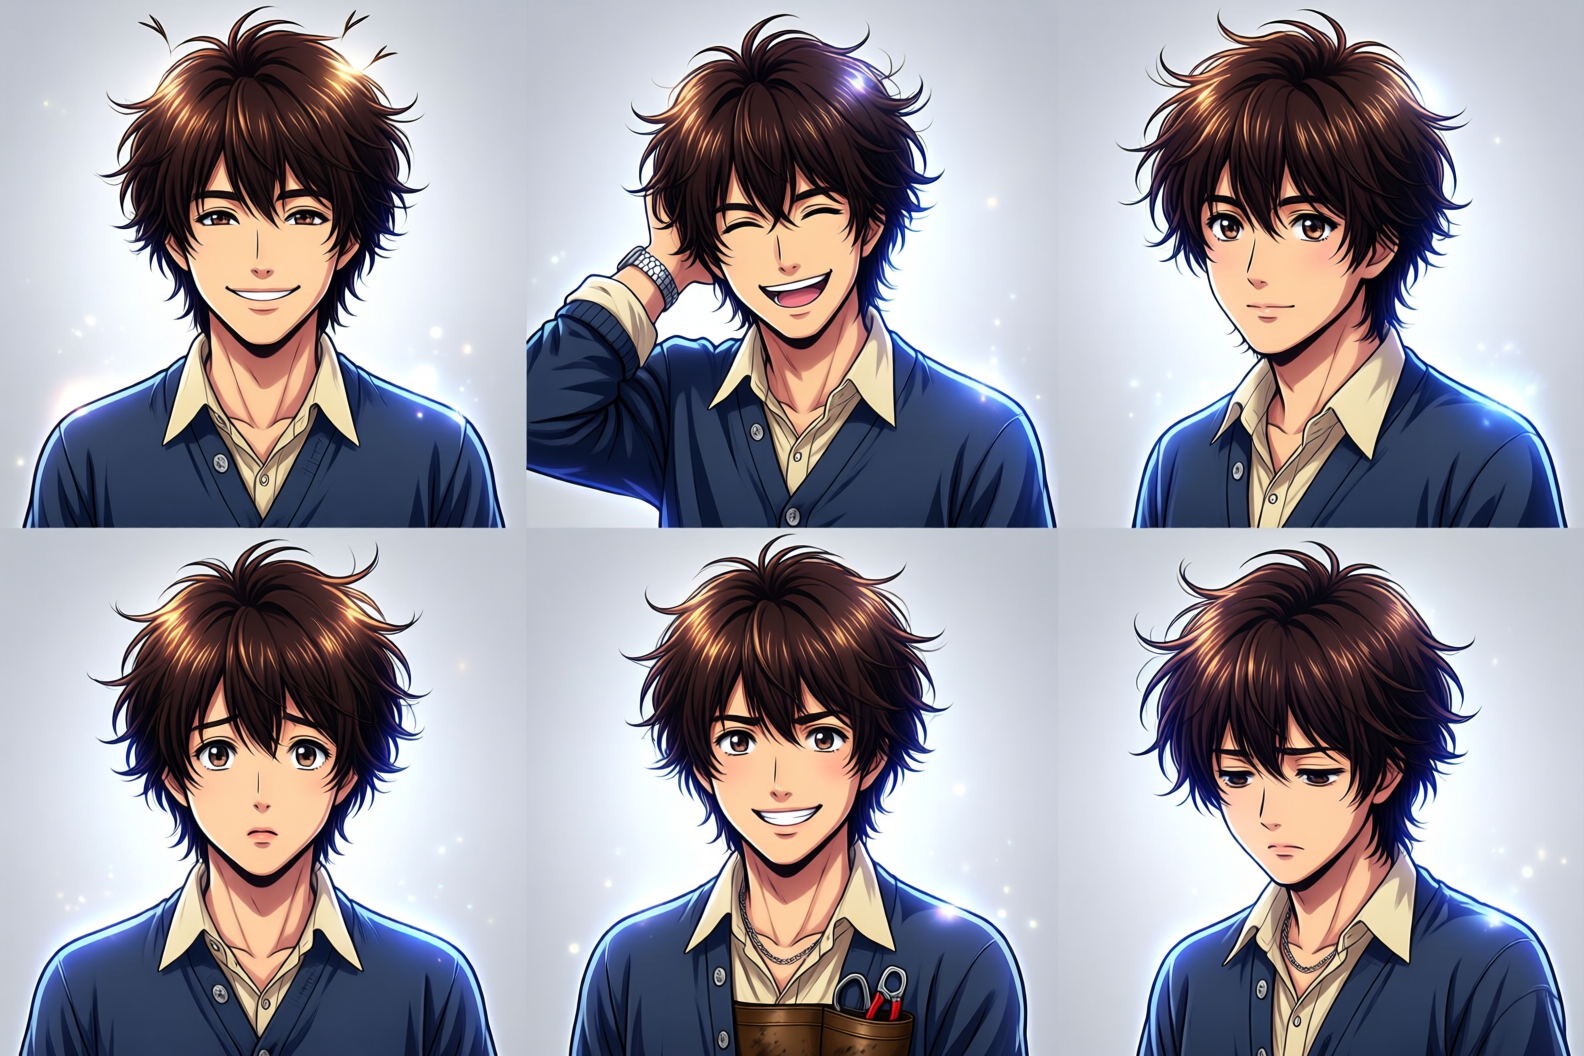
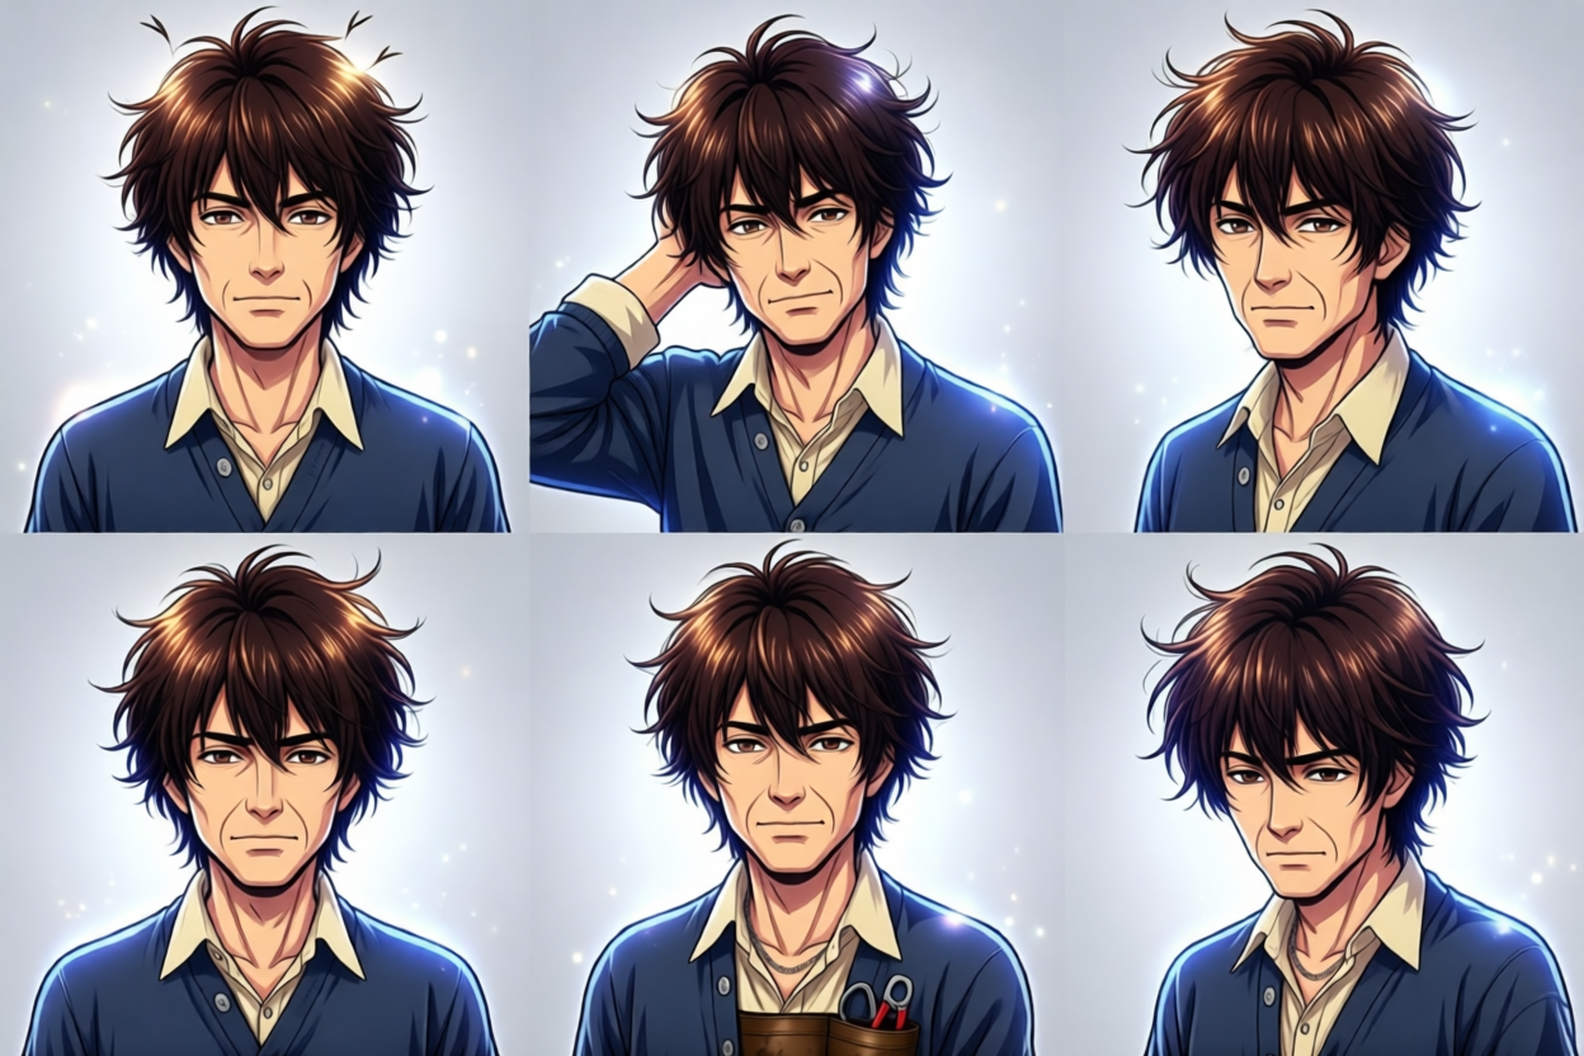
2차 컨셉아트: 제임스 5컷을 40대 초반으로 나이 편집
- r3 에서 20대처럼 보이던 제임스를 Qwen-Image-Edit 로 "about forty, subtle laugh lines" 편집 (컷마다 후보 2장 중 선택)
- sources/04_james 에 편집 전 생성 원본 5장 추가, manifest·final_v2.json·프롬프트 문서(영문·한글) 다시 생성
- README·확장기능_비교.md 에 e2 회차와 처리 내용 반영

Changed region(s): [[0.0, 0.0, 0.6806, 1.0], [0.7115, 0.0, 1.0, 1.0]]

diff --git a/v2_qwen_anime/prompts_v2_ko.md b/v2_qwen_anime/prompts_v2_ko.md
@@ -177,12 +177,24 @@
 캐릭터 모델 시트, 제임스를 왼쪽 정면, 가운데 측면, 오른쪽 후면으로 나란히 세 번 그림, 고른 간격, 머리부터 발끝까지 전신, 편안한 중립 자세, 팔은 옆으로 자연스럽게 내리고 다리는 곧게 나란히, 세 그림 모두 같은 옷과 비율, 제임스는 40대 초반의 다정한 아버지, 매끈한 피부의 젊어 보이는 잘생긴 어른 얼굴, 눈꼬리에 아주 희미한 웃음 주름, 다정하고 따뜻한 눈, 깨끗이 면도함, 아주 키 크고 호리호리하며 어깨가 살짝 굽음, 정수리에 작은 가마처럼 세 가닥이 삐친 헝클어진 짙은 갈색 머리, 작은 은단추가 달린 슬레이트 블루 니트 카디건 안에 팔꿈치 패치가 있는 크림색 셔츠, 걷어 올린 소매, 주머니에 작은 전정가위를 꽂은 낡은 갈색 바지, 진흙 묻은 갈색 고무장화, 가는 은 시곗줄, 부드러운 흰빛이 도는 무지의 연회색 스튜디오 배경, 깔끔한 디자인 시트 배치, 깔끔한 선, 매끈한 디지털 셀 채색, 밝은 가장자리 빛, 선명하고 짙은 색, 차가운 푸른 보랏빛 그림자.
 ```
 
+**편집 지시**
+
+```
+남자를 20대 청년 대신 마흔 살 정도로 보이게 하라 (세 그림 모두): 조금 더 긴 어른 얼굴, 더 단단한 턱선, 눈꼬리의 은은한 웃음 주름. 얼굴 표정은 그대로 두고, 깊은 주름이나 지친 기색은 넣지 않는다. 세 가닥이 삐친 헝클어진 짙은 갈색 머리, 옷, 자세, 키 크고 호리호리한 몸, 색, 배경, 애니메이션 그림체는 그대로.
+```
+
 ### james_2 · `final/04_james/james_2_keypose.png`
 
 **확장 프롬프트**
 
 ```
 40대 초반의 다정한 아버지 제임스의 전신 캐릭터 키아트, 한쪽 무릎을 꿇고 낮게 앉아 눈높이에서 보는 이를 향해 따뜻하게 웃음, 한 손은 무릎 위에, 곁의 땅에 금속 물뿌리개, 매끈한 피부에 눈꼬리에만 아주 희미한 웃음 주름이 있는 젊어 보이는 잘생긴 어른 얼굴, 다정하고 따뜻한 눈, 깨끗이 면도함, 아주 키 크고 호리호리하며 어깨가 살짝 굽음, 정수리에 작은 가마처럼 세 가닥이 삐친 헝클어진 짙은 갈색 머리, 작은 은단추가 달린 슬레이트 블루 니트 카디건 안에 팔꿈치 패치가 있는 크림색 셔츠, 걷어 올린 소매, 주머니에 작은 전정가위를 꽂은 낡은 갈색 바지, 진흙 묻은 갈색 고무장화, 가는 은 시곗줄, 팔다리가 긴 아주 키 크고 마른 곧은 체격, 40대 초반의 다정하고 매끈한 얼굴, 헝클어진 갈색 머리에서 삐친 세 가닥, 슬레이트 블루와 크림색을 엷게 칠한 부드럽고 단순한 배경, 부드럽게 퍼지는 조명, 낮은 카메라 각도, 넓은 화면, 매끈한 그림 질감, 깔끔한 선.
+```
+
+**편집 지시**
+
+```
+남자를 20대 청년 대신 마흔 살 정도로 보이게 하라: 조금 더 긴 어른 얼굴, 더 단단한 턱선, 눈꼬리의 은은한 웃음 주름. 얼굴 표정은 그대로 두고, 깊은 주름이나 지친 기색은 넣지 않는다. 세 가닥이 삐친 헝클어진 짙은 갈색 머리, 옷, 자세, 키 크고 호리호리한 몸, 색, 배경, 애니메이션 그림체는 그대로.
 ```
 
 ### james_3 · `final/04_james/james_3_expressions.png`
@@ -193,6 +205,12 @@
 표정 시트, 제임스의 머리·어깨 초상 여섯 장을 2행 3열로 배치, 각각 다른 감정: 눈가가 접히는 따뜻한 미소, 서툰 실수 뒤 뒷머리를 긁으며 멋쩍게 웃음, 차분하고 다정한 눈으로 참을성 있게 기다림, 눈썹을 올린 걱정, 한쪽 눈썹을 올리고 장난스럽게 웃으며 농담함, 눈을 내리깔고 희미하게 웃는 조용한 슬픔. 모든 초상에서 같은 머리, 옷, 소품. 모든 초상은 가슴에서 잘림. 제임스는 40대 초반의 다정한 아버지, 매끈한 피부에 눈꼬리에만 아주 희미한 웃음 주름이 있는 젊어 보이는 잘생긴 어른 얼굴, 다정하고 따뜻한 눈, 깨끗이 면도함, 아주 키 크고 호리호리하며 어깨가 살짝 굽음, 정수리에 작은 가마처럼 세 가닥이 삐친 헝클어진 짙은 갈색 머리, 작은 은단추가 달린 슬레이트 블루 니트 카디건 안에 팔꿈치 패치가 있는 크림색 셔츠, 걷어 올린 소매, 주머니에 작은 전정가위를 꽂은 낡은 갈색 바지, 진흙 묻은 갈색 고무장화, 가는 은 시곗줄. 핵심 디자인 포인트: 팔다리가 긴 아주 키 크고 마른 곧은 체격, 40대 초반의 다정하고 매끈한 얼굴, 헝클어진 갈색 머리에서 삐친 세 가닥. 부드러운 흰빛이 도는 무지의 연회색 스튜디오 배경, 아무 표시 없는 깔끔한 디자인 시트 배치.
 ```
 
+**편집 지시**
+
+```
+남자를 20대 청년 대신 마흔 살 정도로 보이게 하라 (여섯 초상 모두): 조금 더 긴 어른 얼굴, 더 단단한 턱선, 눈꼬리의 은은한 웃음 주름. 각 초상의 얼굴 표정은 그대로 두고, 깊은 주름이나 지친 기색은 넣지 않는다. 세 가닥이 삐친 헝클어진 짙은 갈색 머리, 옷, 자세, 키 크고 호리호리한 몸, 색, 배경, 애니메이션 그림체는 그대로.
+```
+
 ### james_4 · `final/04_james/james_4_greenhouse.png`
 
 **확장 프롬프트**
@@ -201,12 +219,24 @@
 40대 초반의 다정한 아버지 제임스, 매끈한 피부의 젊어 보이는 잘생긴 어른 얼굴, 눈꼬리의 희미한 웃음 주름, 다정하고 따뜻한 눈, 깨끗이 면도함, 아주 키 크고 호리호리하며 어깨가 살짝 굽음, 정수리에 작은 가마처럼 세 가닥이 삐친 헝클어진 짙은 갈색 머리, 작은 은단추가 달린 슬레이트 블루 니트 카디건 안에 팔꿈치 패치가 있는 크림색 셔츠, 걷어 올린 소매, 주머니에 작은 전정가위를 꽂은 낡은 갈색 바지, 진흙 묻은 갈색 고무장화, 가는 은 시곗줄, 팔다리가 긴 아주 키 크고 마른 곧은 체격, 다정하고 매끈한 얼굴, 헝클어진 갈색 머리에서 삐친 세 가닥, 햇살 드는 유리 온실 안에서 줄지어 선 식물에 물을 줌, 뿌연 유리창으로 쏟아지는 따뜻한 빛, 김과 초록 잎, 평화로운 아침, 빛나는 정교한 그림 배경, 빛나는 빛 알갱이, 부드러운 렌즈 번짐, 선명하고 짙은 색, 영화 같은 피사계 심도.
 ```
 
+**편집 지시**
+
+```
+남자를 20대 청년 대신 마흔 살 정도로 보이게 하라: 조금 더 긴 어른 얼굴, 더 단단한 턱선, 눈꼬리의 은은한 웃음 주름. 얼굴 표정은 그대로 두고, 깊은 주름이나 지친 기색은 넣지 않는다. 세 가닥이 삐친 헝클어진 짙은 갈색 머리, 옷, 자세, 키 크고 호리호리한 몸, 색, 배경, 애니메이션 그림체는 그대로.
+```
+
 ### james_5 · `final/04_james/james_5_doorframe.png`
 
 **확장 프롬프트**
 
 ```
 40대 초반의 다정한 아버지 제임스, 매끈한 피부에 눈꼬리에만 아주 희미한 웃음 주름이 있는 젊어 보이는 잘생긴 어른 얼굴, 다정하고 따뜻한 눈, 깨끗이 면도함, 아주 키 크고 호리호리하며 어깨가 살짝 굽음, 정수리에 작은 가마처럼 세 가닥이 삐친 헝클어진 짙은 갈색 머리, 작은 은단추가 달린 슬레이트 블루 니트 카디건 안에 팔꿈치 패치가 있는 크림색 셔츠, 걷어 올린 소매, 주머니에 작은 전정가위를 꽂은 낡은 갈색 바지, 진흙 묻은 갈색 고무장화, 가는 은 시곗줄, 팔다리가 긴 아주 키 크고 마른 곧은 체격, 40대 초반의 다정하고 매끈한 얼굴, 헝클어진 갈색 머리에서 삐친 세 가닥, 아늑한 오두막의 낮은 나무 문틀 아래를 지나려고 긴 목을 숙이다 이마를 문틀에 살짝 부딪침, 이마를 문지르며 스스로 웃음, 따뜻한 실내 빛, 잔잔한 코미디, 깔끔한 선, 매끈한 디지털 셀 채색, 큰 표정 있는 눈, 윤기 나는 머리카락, 빛나는 그림 배경, 선명하고 짙은 색, 영화 같은 피사계 심도, 오리지널 캐릭터 디자인.
+```
+
+**편집 지시**
+
+```
+남자를 20대 청년 대신 마흔 살 정도로 보이게 하라: 조금 더 긴 어른 얼굴, 더 단단한 턱선, 눈꼬리의 은은한 웃음 주름. 얼굴 표정은 그대로 두고, 깊은 주름이나 지친 기색은 넣지 않는다. 세 가닥이 삐친 헝클어진 짙은 갈색 머리, 옷, 자세, 키 크고 호리호리한 몸, 색, 배경, 애니메이션 그림체는 그대로.
 ```
 
 ## 05_beth

diff --git a/v2_qwen_anime/prompts_v2_en.md b/v2_qwen_anime/prompts_v2_en.md
@@ -447,6 +447,12 @@ Character model sheet, three identical figures of James arranged side by side, f
 
 - 부정 프롬프트 추가: `semi-realistic, realistic face, realistic skin, skin pores, detailed wrinkles, wrinkle shading, digital painting, concept art, painterly, western cartoon, caricature, 3d cartoon, hyperdetailed, elderly, old man, grandfather, deep wrinkles, weathered skin, sagging skin, gray hair, white hair`
 
+**편집 지시 (시드 202)**
+
+```
+Make the man look about forty years old instead of a man in his twenties in all three views: a slightly longer adult face with a firmer jaw and subtle laugh lines at the corners of his eyes. Keep his facial expression exactly the same, with no heavy wrinkles and no tired look. Keep his messy dark brown hair with the three stray strands, his clothes, pose, tall lanky body, colors, background and anime style exactly the same.
+```
+
 ### james_2 · `final/04_james/james_2_keypose.png`
 
 - 생성: 시드 12402, 1056x1584, 원본 `main/2026-10-27/niki_compass_v2/04_james/r3/james_2_s12402_00001_.png`
@@ -470,6 +476,12 @@ Full-body character key art of James, a gentle father in his early forties, crou
 ```
 
 - 부정 프롬프트 추가: `semi-realistic, realistic face, realistic skin, skin pores, detailed wrinkles, wrinkle shading, digital painting, concept art, painterly, western cartoon, caricature, 3d cartoon, hyperdetailed, elderly, old man, grandfather, deep wrinkles, weathered skin, sagging skin, gray hair, white hair`
+
+**편집 지시 (시드 101)**
+
+```
+Make the man look about forty years old instead of a man in his twenties: a slightly longer adult face with a firmer jaw and subtle laugh lines at the corners of his eyes. Keep his facial expression exactly the same, with no heavy wrinkles and no tired look. Keep his messy dark brown hair with the three stray strands, his clothes, pose, tall lanky body, colors, background and anime style exactly the same.
+```
 
 ### james_3 · `final/04_james/james_3_expressions.png`
 
@@ -495,6 +507,12 @@ Expression sheet, six head-and-shoulders portraits of James in a two-row three-c
 
 - 부정 프롬프트 추가: `semi-realistic, realistic face, realistic skin, skin pores, detailed wrinkles, wrinkle shading, digital painting, concept art, painterly, western cartoon, caricature, 3d cartoon, hyperdetailed, elderly, old man, grandfather, deep wrinkles, weathered skin, sagging skin, gray hair, white hair`
 
+**편집 지시 (시드 202)**
+
+```
+Make the man look about forty years old instead of a man in his twenties in all six portraits: a slightly longer adult face with a firmer jaw and subtle laugh lines at the corners of his eyes. Keep his facial expression in each portrait exactly the same, with no heavy wrinkles and no tired look. Keep his messy dark brown hair with the three stray strands, his clothes, pose, tall lanky body, colors, background and anime style exactly the same.
+```
+
 ### james_4 · `final/04_james/james_4_greenhouse.png`
 
 - 생성: 시드 12404, 1584x1056, 원본 `main/2026-10-27/niki_compass_v2/04_james/r3/james_4_s12404_00001_.png`
@@ -519,6 +537,12 @@ James, a gentle father in his early forties, youthful handsome adult face with s
 
 - 부정 프롬프트 추가: `semi-realistic, realistic face, realistic skin, skin pores, detailed wrinkles, wrinkle shading, digital painting, concept art, painterly, western cartoon, caricature, 3d cartoon, hyperdetailed, elderly, old man, grandfather, deep wrinkles, weathered skin, sagging skin, gray hair, white hair`
 
+**편집 지시 (시드 202)**
+
+```
+Make the man look about forty years old instead of a man in his twenties: a slightly longer adult face with a firmer jaw and subtle laugh lines at the corners of his eyes. Keep his facial expression exactly the same, with no heavy wrinkles and no tired look. Keep his messy dark brown hair with the three stray strands, his clothes, pose, tall lanky body, colors, background and anime style exactly the same.
+```
+
 ### james_5 · `final/04_james/james_5_doorframe.png`
 
 - 생성: 시드 12405, 1056x1584, 원본 `main/2026-10-27/niki_compass_v2/04_james/r3/james_5_s12405_00001_.png`
@@ -542,6 +566,12 @@ James, a gentle father in his early forties, a youthful handsome adult face with
 ```
 
 - 부정 프롬프트 추가: `semi-realistic, realistic face, realistic skin, skin pores, detailed wrinkles, wrinkle shading, digital painting, concept art, painterly, western cartoon, caricature, 3d cartoon, hyperdetailed, elderly, old man, grandfather, deep wrinkles, weathered skin, sagging skin, gray hair, white hair`
+
+**편집 지시 (시드 101)**
+
+```
+Make the man look about forty years old instead of a man in his twenties: a slightly longer adult face with a firmer jaw and subtle laugh lines at the corners of his eyes. Keep his facial expression exactly the same, with no heavy wrinkles and no tired look. Keep his messy dark brown hair with the three stray strands, his clothes, pose, tall lanky body, colors, background and anime style exactly the same.
+```
 
 ## 05_beth
 

diff --git a/v2_qwen_anime/README.md b/v2_qwen_anime/README.md
@@ -13,7 +13,7 @@
 ## 폴더 구성
 
 - `final/01_niki` ~ `final/09_iluki` 는 캐릭터별 최종 5장입니다 (파일 이름은 1차와 같음).
-- `sources/` 는 편집한 10컷의 편집 전 생성 원본입니다 (확장 프롬프트는 원본 PNG 에 들어 있음).
+- `sources/` 는 편집한 15컷의 편집 전 생성 원본입니다 (확장 프롬프트는 원본 PNG 에 들어 있음).
 - `prompts_v2_en.md` 는 실제로 넣은 영문 입력입니다 (확장 입력, 확장 프롬프트, 추가 부정어, 편집 지시).
 - `prompts_v2_ko.md` 는 그 한글판입니다.
 - `final_v2.json` 은 컷마다 최종 PNG 에서 꺼낸 실행 정보입니다 (시드, 크기, 프롬프트, 부정 프롬프트, 편집 지시, 메인 원본 경로).
@@ -35,6 +35,7 @@
 | r3 | TV 애니 셀화 머리말 + 사실풍 부정어, 제임스 설명 수정 후 45장 | 모든 인물이 애니풍, 최종본의 바탕 |
 | r4 | 니키 3번, 퀼린스 5번 다른 시드 | 니키 3번 채택 |
 | e1 | 편집 10컷 | 니키 1·2·4·5 소매, 타오바 1·3·4·5 피부색, 퀼린스 3 두건, 퀼린스 5 애니풍 |
+| e2 | 제임스 5컷 나이 편집 (2026-10-29, 컷마다 후보 2장) | 20대처럼 보이던 얼굴을 40대 초반으로, 표정이 잘 남은 후보를 고름 |
 
 - 생성은 30 steps, cfg 4, euler 이고 한 장에 약 65~75초 걸렸습니다 (메인 GPU 1장).
 - 편집은 Lightning 4 steps 이고 한 장에 약 30~40초 걸렸습니다.
@@ -47,7 +48,7 @@
 | 니키 그린 | 턴어라운드 (편집) | 대표 포즈 (편집) | 표정 시트 (r4) | 숲 마법 (편집) | 소매 성장 시트 (편집) |
 | 푸토르 | 턴어라운드 | 부싯돌 케이스 | 표정 시트 | 치료 | 소품 시트 |
 | 퀼린스 | 두건 턴어라운드 | 밤 해안 | 두건 벗은 초상 (편집) | 물범 | 장갑 (r1 + 편집) |
-| 제임스 그린 | 턴어라운드 | 대표 포즈 | 표정 시트 | 온실 | 문틀 |
+| 제임스 그린 | 턴어라운드 (편집) | 대표 포즈 (편집) | 표정 시트 (편집) | 온실 (편집) | 문틀 (편집) |
 | 베스 그린 | 턴어라운드 | 차 따르기 | 표정 시트 | 온실 | 막아서기 |
 | 타오바 | 턴어라운드 (편집) | 대표 포즈 | 표정 시트 (편집) | 온실 (편집) | 덩굴 (편집) |
 | 일리아 | 턴어라운드 | 대표 포즈 | 표정 시트 | 리본 | 온실 |
@@ -56,8 +57,8 @@
 
 ## 알려진 한계
 
-- 제임스는 할아버지처럼 나오던 문제를 고친 뒤, 20대 후반~30대처럼 젊어 보입니다 [TBD].
-  - 예: 1차처럼 편집으로 "about forty, subtle laugh lines" 정도를 약하게 더할 수 있음
+- 제임스는 r1 에서 할아버지처럼, r3 에서 20대처럼 나와, 1차와 같은 나이 편집(e2)으로 40대 초반에 맞췄습니다.
+  - 예: 편집 후보 중 턴어라운드는 수염이 생긴 쪽(e101), 표정 시트는 표정이 밋밋해진 쪽(e101)을 버림
 - 니키 5번 가운데 그림은 손가락 끝만 보여야 하는데 손이 조금 더 보입니다.
 - 푸토르는 애니풍이 됐지만 1차보다 만화 캐리커처에 가깝습니다.
 - 확장 프롬프트가 규칙을 끝까지 지키지 못한 컷이 7개 남았습니다 (`확장기능_비교.md` 3절).

diff --git a/v2_qwen_anime/확장기능_비교.md b/v2_qwen_anime/확장기능_비교.md
@@ -67,6 +67,7 @@
 |---|---|---|
 | 푸토르·퀼린스·타오바가 반사실풍 서양 일러스트로 나옴 (r1) | 나이 든 얼굴 묘사(주름, 수척함)에 Qwen 이 사실풍으로 기움 | r3 부터 TV 애니 셀화 머리말과 사실풍 부정어를 더해 45장 모두 다시 그림 |
 | 제임스가 할아버지처럼 나옴 (r1) | 1차에서 너무 어려 보여 넣은 나이 말(이마 주름 등)을 Qwen 이 세게 받음 | 설명을 '40대 초반의 매끈한 얼굴' 로 바꿔 다시 확장, 부정어에 elderly 등 추가 |
+| 고친 뒤 제임스가 20대처럼 나옴 (r3) | 매끈한 얼굴 + 애니 머리말이 함께 젊게 끌어당김 | 1차와 같은 나이 편집("about forty, subtle laugh lines")으로 5컷 모두 고침 |
 | 니키 손이 소매 밖으로 나옴 (1·2·4·5번) | 손 숨김은 1차처럼 글만으로 지켜지지 않음 | Qwen-Image-Edit 로 소매를 길게 편집 |
 | 타오바 얼굴·손이 빨갛게 나옴 (1·3·4·5번) | "ruddy face, rosy cheeks" 를 세게 받음 | 편집으로 피부색만 바꿈 |
 | 니키 3번 표정 시트에 전신이 섞임 | 시드 운 | 다른 시드로 다시 뽑음 (s13103) |
